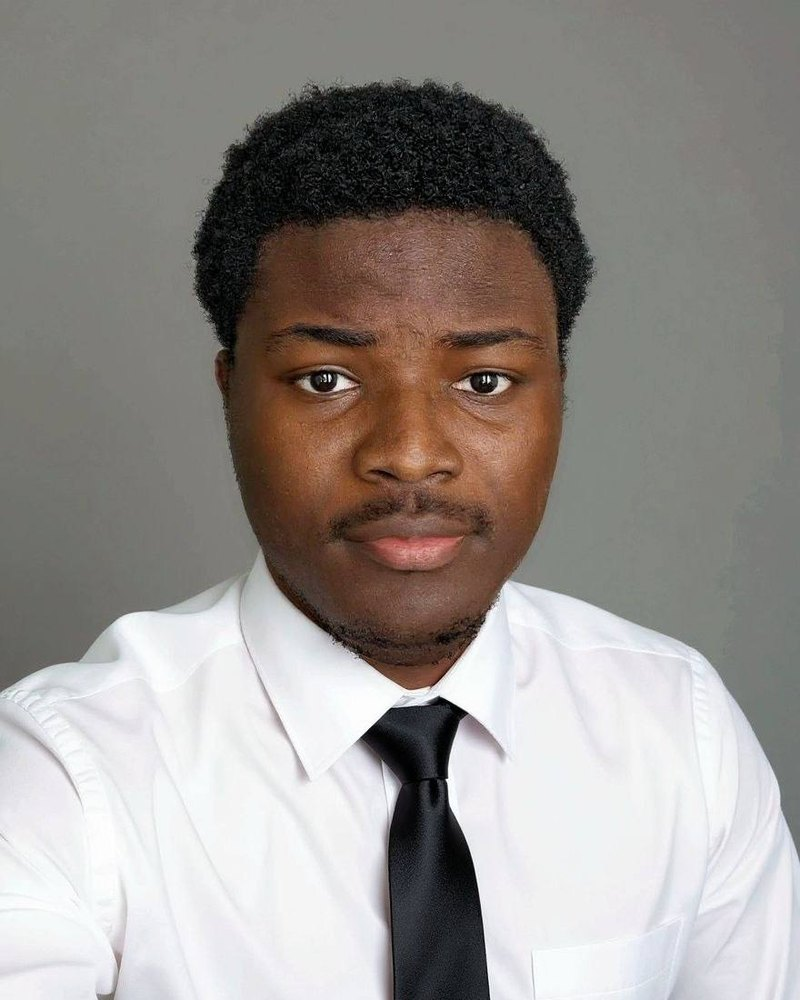
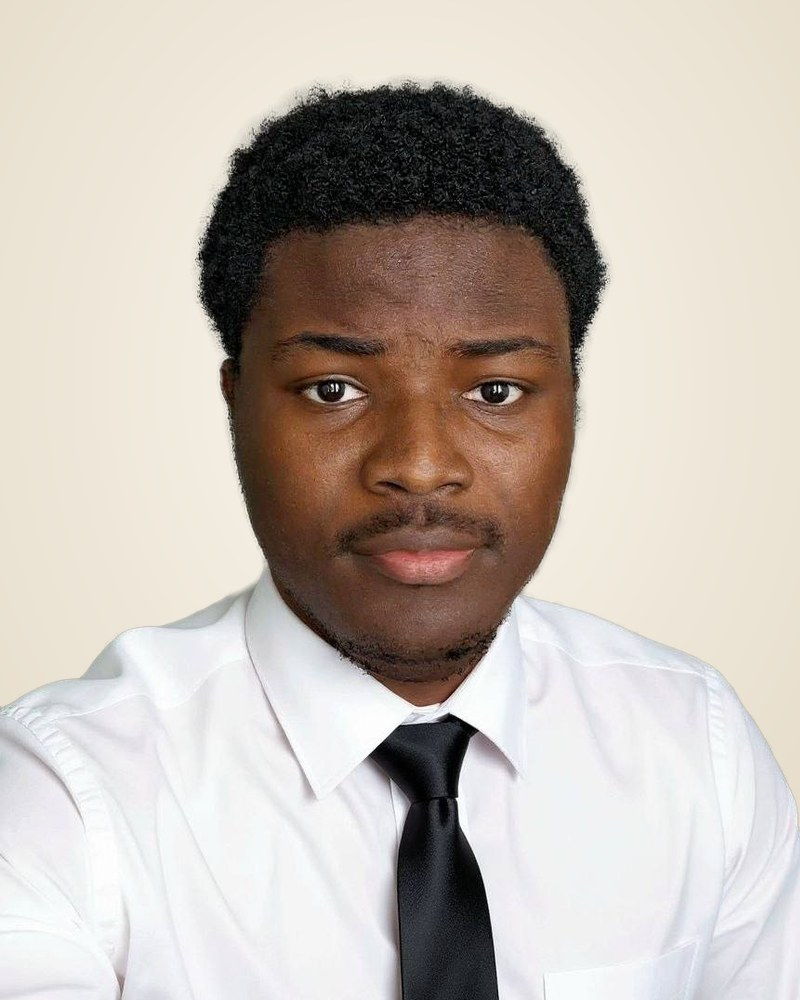
Portraits détourés sur un même fond et alignés

diff --git a/cercle.css b/cercle.css
@@ -187,9 +187,8 @@ h3 { font-family: var(--display); font-size: 24px; line-height: 1.18; letter-spa
 .team-grid { display: grid; grid-template-columns: 1fr 1.1fr; gap: 6vw; align-items: center; }
 .people { display: grid; grid-template-columns: 1fr 1fr; gap: 26px; }
 .people figure { margin: 0; }
-.people figure:nth-child(2) { margin-top: 70px; }
-.portrait { position: relative; border-radius: 200px 200px 22px 22px; overflow: hidden; aspect-ratio: 4 / 5; box-shadow: var(--shadow); }
-.portrait::after { content: ""; position: absolute; inset: 10px; border-radius: 192px 192px 14px 14px; border: 1px solid rgba(231, 203, 140, 0.55); pointer-events: none; }
+.portrait { position: relative; border-radius: 22px; overflow: hidden; aspect-ratio: 4 / 5; box-shadow: var(--shadow); }
+.portrait::after { content: ""; position: absolute; inset: 10px; border-radius: 14px; border: 1px solid rgba(231, 203, 140, 0.55); pointer-events: none; }
 .portrait img { width: 100%; height: 100%; object-fit: cover; transition: transform 1.2s var(--ease); }
 .people figure:hover .portrait img { transform: scale(1.05); }
 .people figcaption { margin-top: 18px; }
@@ -282,7 +281,6 @@ h3 { font-family: var(--display); font-size: 24px; line-height: 1.18; letter-spa
   .bento { grid-auto-rows: 300px; }
   .tile-xl { grid-column: auto; grid-row: span 1; }
   .tile-txt p { max-height: 120px; opacity: 1; }
-  .people figure:nth-child(2) { margin-top: 40px; }
   .timeline { padding-left: 68px; gap: 36px; }
   .tl-num { left: -68px; width: 46px; height: 46px; font-size: 20px; }
   .tl-line { left: 22px; }

diff --git a/index.html b/index.html
@@ -228,8 +228,8 @@
           <p class="muted" data-reveal>Agents sur-mesure, automatisations, contenus et motion design&nbsp;: ce qu’on partage dans le Cercle, on l’utilise d’abord pour nous, chaque jour.</p>
         </div>
         <div class="people">
-          <figure data-reveal><div class="portrait"><img src="./img/boris.jpg" alt="Boris Koulevo"></div><figcaption><b>Boris Koulevo</b><span>Ingénieur IA</span></figcaption></figure>
-          <figure data-reveal style="--d:.12s"><div class="portrait"><img src="./img/kevin.jpg" alt="Kévin Tiassou"></div><figcaption><b>Kévin Tiassou</b><span>Ingénieur IA</span></figcaption></figure>
+          <figure data-reveal><div class="portrait"><img src="./img/boris.jpg?v=3" alt="Boris Koulevo"></div><figcaption><b>Boris Koulevo</b><span>Ingénieur IA</span></figcaption></figure>
+          <figure data-reveal style="--d:.12s"><div class="portrait"><img src="./img/kevin.jpg?v=3" alt="Kévin Tiassou"></div><figcaption><b>Kévin Tiassou</b><span>Ingénieur IA</span></figcaption></figure>
         </div>
       </div>
     </section>
